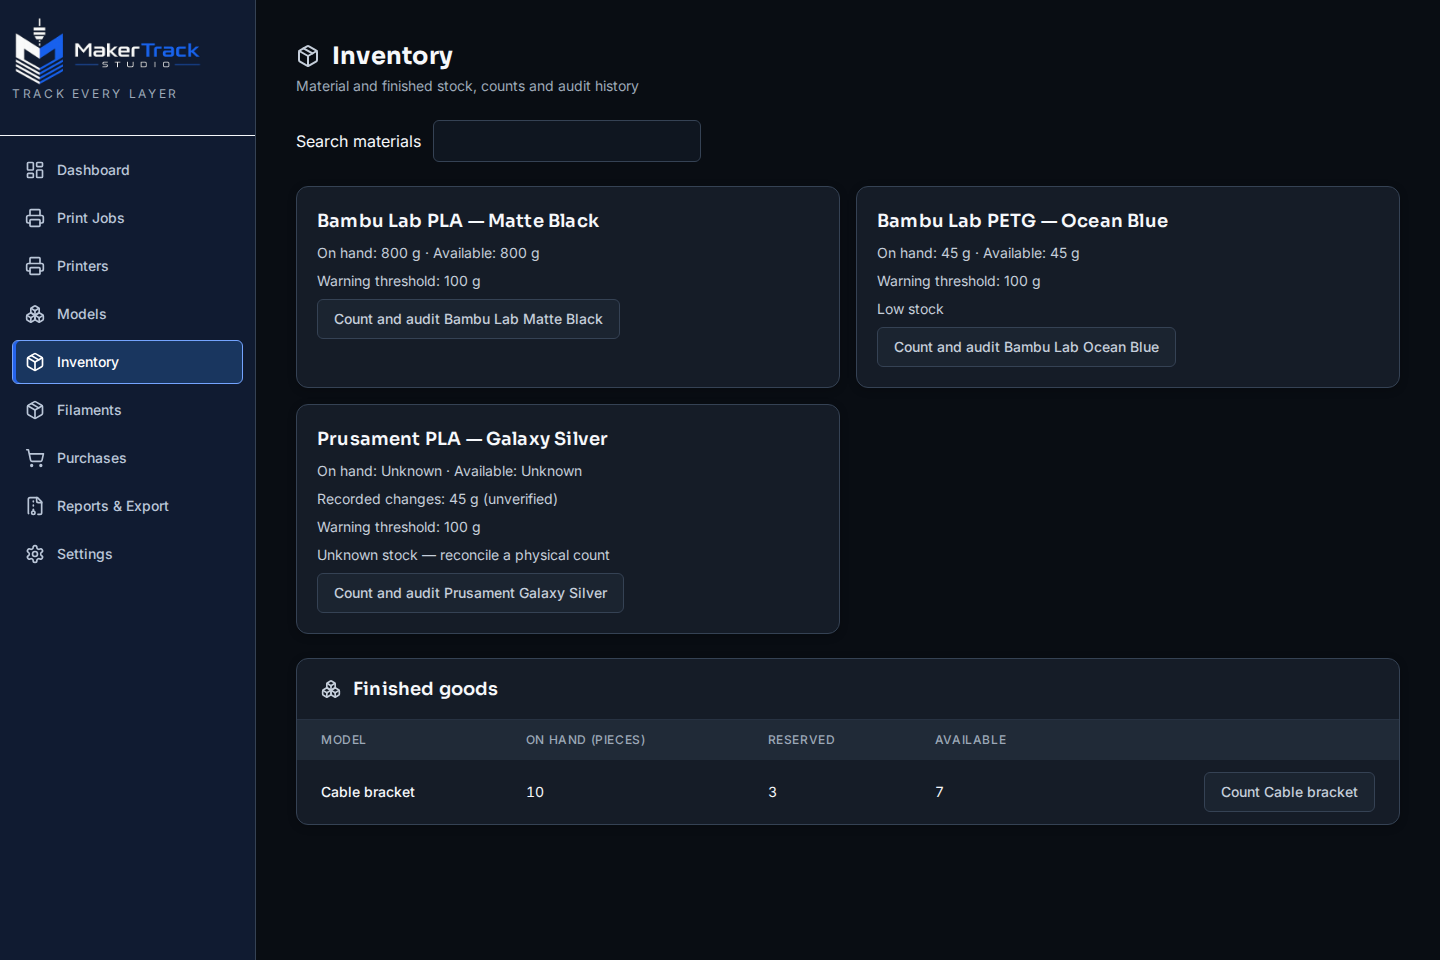
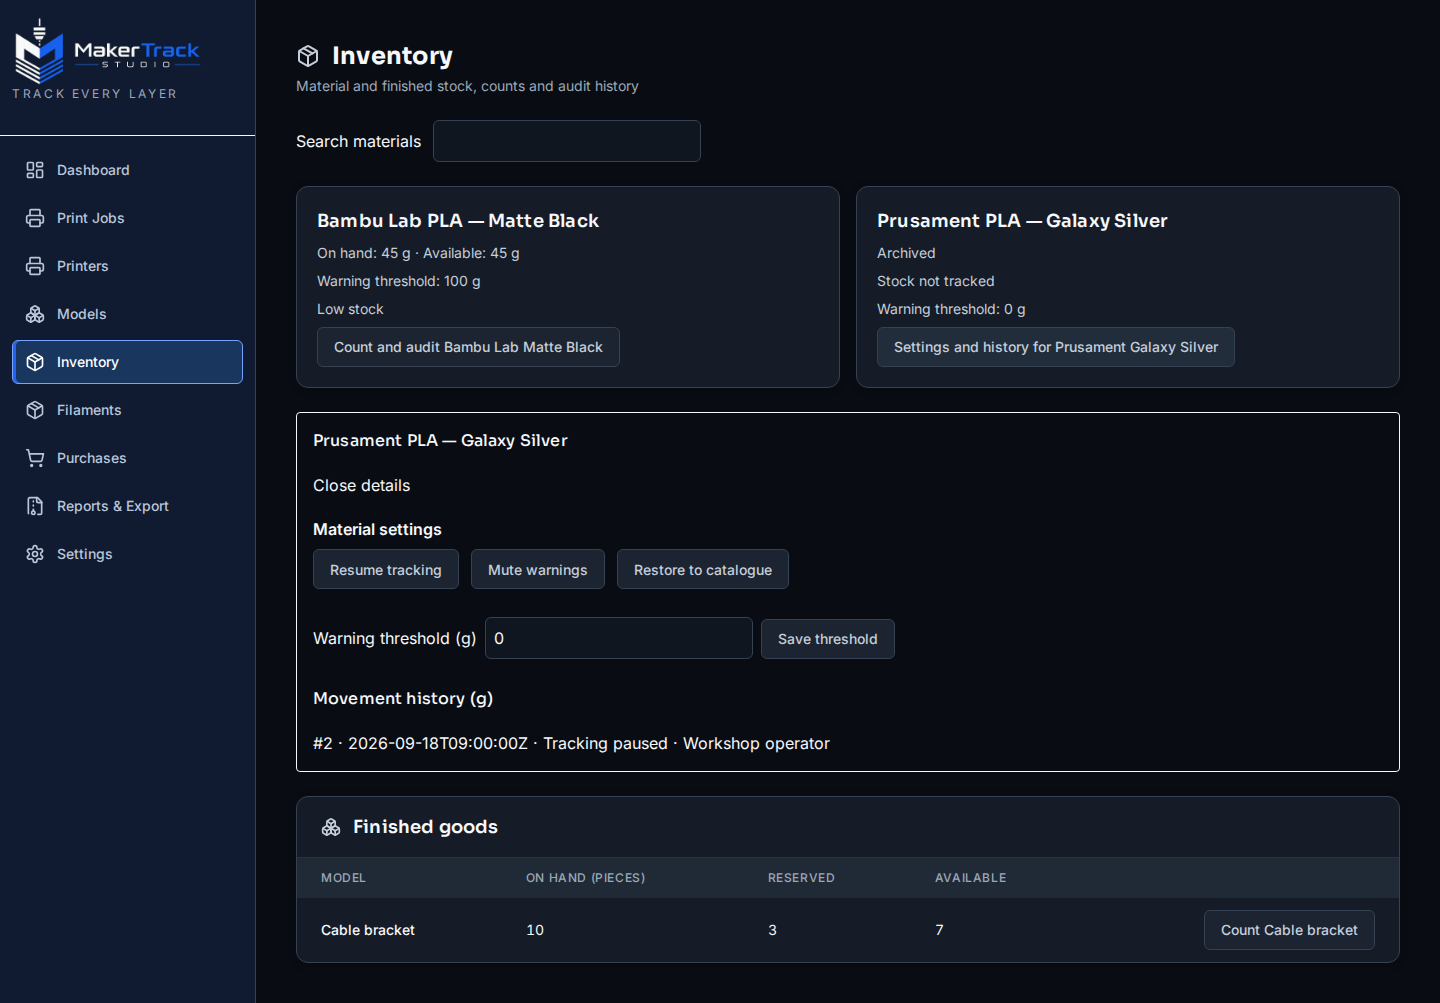
feat(inventory): expose material lifecycle controls and archive-aware choices

diff --git a/apps/web/src/pages/Inventory.jsx b/apps/web/src/pages/Inventory.jsx
@@ -8,7 +8,7 @@ import { useTranslation } from 'react-i18next';
 import { EmptyState, InlineError, LoadingState } from '../components/ui/PageState';
 import Modal from '../components/ui/Modal';
 import PageHeader from '../components/ui/PageHeader';
-import { getFinishedGoods, getMaterials, getMovements, postCount, setThreshold, stockWarning } from '../services/inventoryService';
+import { getFinishedGoods, getMaterials, getMovements, postCount, setThreshold, updateLifecycle, stockWarning } from '../services/inventoryService';
 
 const quantity = yup.number().required().min(0);
 const schema = (pieces) => yup.object({ quantity: pieces ? quantity.integer().max(Number.MAX_SAFE_INTEGER) : quantity.max(Number.MAX_SAFE_INTEGER / 1000), reason: yup.string().trim().required().max(512), actor: yup.string().trim().required().max(128) });
@@ -37,6 +37,37 @@ function Reconcile({ item, onSaved, pieces = false }) {
     {Object.values(errors).map((error, i) => <p role="alert" key={i}>{error.message}</p>)}
     <button className="page-action" disabled={isSubmitting}>{t('finishedGoods.record')}</button>
   </form>;
+}
+
+function LifecycleControls({ item, onSaved }) {
+  const { t } = useTranslation();
+  const [confirm, setConfirm] = useState(false);
+  const [saving, setSaving] = useState(false);
+  const tracked = item.tracking_enabled !== false;
+  const update = async changes => {
+    setSaving(true);
+    try {
+      await updateLifecycle(item.id, changes);
+      await onSaved();
+    } catch (err) {
+      if (err.response?.status === 409) {
+        toast.error(t('lifecycle.stale'));
+        await onSaved();
+      } else {
+        toast.error(t('lifecycle.failed'));
+      }
+    }
+    finally { setSaving(false); }
+  };
+  return <fieldset disabled={saving} className="flex flex-wrap items-center gap-3">
+    <legend className="mb-2 font-semibold">{t('lifecycle.controls')}</legend>
+    <button className="page-action page-action-secondary" onClick={() => setConfirm(true)}>{t(tracked ? 'lifecycle.pause' : 'lifecycle.resume')}</button>
+    <button className="page-action page-action-secondary" onClick={() => update({ warnings_enabled: item.warnings_enabled === false })}>{t(item.warnings_enabled === false ? 'lifecycle.enableWarnings' : 'lifecycle.mute')}</button>
+    <button className="page-action page-action-secondary" onClick={() => update({ archived: !item.archived })}>{t(item.archived ? 'lifecycle.unarchive' : 'lifecycle.archive')}</button>
+    {confirm && <div className="w-full space-y-2"><p>{t('lifecycle.confirmHelp')}</p>
+      <button className="page-action" onClick={() => update({ tracking_enabled: !tracked, expected_revision: item.balance.revision })}>{t('lifecycle.confirm')}</button>
+      <button className="page-action page-action-secondary" onClick={() => setConfirm(false)}>{t('common.cancel')}</button></div>}
+  </fieldset>;
 }
 
 function FinishedGoods() {
@@ -101,16 +132,20 @@ export default function Inventory() {
       {items.length > 0 && !items.some((item) => `${item.brand} ${item.type} ${item.color}`.toLowerCase().includes(search.toLowerCase())) && <p>No matching materials.</p>}
       <div className="grid gap-4 md:grid-cols-2">{items.filter((item) => `${item.brand} ${item.type} ${item.color}`.toLowerCase().includes(search.toLowerCase())).map((item) => <article className="page-panel p-5 space-y-2 text-sm ui-text-secondary" key={item.id}>
         <h2 className="text-lg font-semibold ui-text-primary">{item.brand} {item.type} — {item.color}</h2>
-        <p>On hand: {item.balance.verified ? grams(item.balance.on_hand) : 'Unknown'} · Available: {item.balance.verified ? grams(item.balance.available) : 'Unknown'}</p>
-        {!item.balance.verified && <p>Recorded changes: {grams(item.balance.on_hand)} (unverified)</p>}
+        {item.warnings_enabled === false && <p>{t('lifecycle.muted')}</p>}
+        {item.archived && <p>{t('lifecycle.archived')}</p>}
+        {item.tracking_enabled === false ? <p>{t('lifecycle.untracked')}</p> : <p>On hand: {item.balance.verified ? grams(item.balance.on_hand) : 'Unknown'} · Available: {item.balance.verified ? grams(item.balance.available) : 'Unknown'}</p>}
+        {item.tracking_enabled !== false && !item.balance.verified && <p>Recorded changes: {grams(item.balance.on_hand)} (unverified)</p>}
         <p>Warning threshold: {grams(item.threshold_mg)}</p><p>{stockWarning(item)}</p>
-        <button className="page-action page-action-secondary" onClick={() => inspect(item)}>Count and audit {item.brand} {item.color}</button>
+        <button className="page-action page-action-secondary" onClick={() => inspect(item)}>{t(item.tracking_enabled === false ? 'lifecycle.review' : 'lifecycle.countAudit', { name: [item.brand, item.color].join(' ') })}</button>
       </article>)}</div>
       {selected && <section className="rounded border p-4 space-y-5" aria-label="Material details">
         <h2>{selected.brand} {selected.type} — {selected.color}</h2><button onClick={() => setSelected(null)}>Close details</button>
+        <LifecycleControls key={selected.id} item={selected} onSaved={async () => { setSelected(null); await load(); }} />
         <form onSubmit={saveThreshold}><label>Warning threshold (g)<input className="m-2 rounded border p-2" type="number" min="0" step="0.001" required value={threshold} onChange={(e) => setThresholdValue(e.target.value)} /></label><button className="page-action page-action-secondary">Save threshold</button></form>
-        <Reconcile key={`${selected.id}:${selected.balance.revision}`} item={selected} onSaved={async () => { setSelected(null); await load(); }} />
-        <h2>Movement history (g)</h2>{historyError ? <p role="alert">Could not load history. <button onClick={() => inspect(selected)}>Retry history</button></p> : history.length === 0 ? <p>No recorded movements.</p> : <ol>{history.map((row) => <li key={row.sequence}>#{row.sequence} · {row.created_at} · {row.kind} · {grams(row.quantity)} · {row.reason} · {row.actor}</li>)}</ol>}
+        {selected.tracking_enabled !== false && <Reconcile key={`${selected.id}:${selected.balance.revision}`} item={selected} onSaved={async () => { setSelected(null); await load(); }} />}
+        <h2>Movement history (g)</h2>{historyError ? <p role="alert">Could not load history. <button onClick={() => inspect(selected)}>Retry history</button></p> : history.length === 0 ? <p>No recorded movements.</p> : <ol>{history.map((row) => <li key={row.sequence}>#{row.sequence} · {row.created_at} · {['tracking_paused', 'tracking_resumed'].includes(row.kind)
+          ? t(`lifecycle.${row.kind}`) : `${row.kind} · ${grams(row.quantity)} · ${row.reason}`} · {row.actor}</li>)}</ol>}
         {after > 0 && <button onClick={() => inspect(selected, after)}>Load more movements</button>}
       </section>}
     </>}

diff --git a/apps/web/visual/catalog.screenshots.spec.js b/apps/web/visual/catalog.screenshots.spec.js
@@ -39,7 +39,30 @@ const ready = {
 };
 
 const scenarios = [
-  ...[false, true].map((mobile) => ({ slug: mobile ? 'inventory-mobile' : 'inventory', route: 'inventory', setup: async (page) => { await page.route('**/api/features', (route) => route.fulfill({ json: { sales_orders: false } })); }, ...(mobile ? { viewport: { width: 390, height: 844 } } : {}), fullPage: true, prepare: async (page) => { await expect(page.getByRole('heading', { name: 'Inventory', exact: true })).toBeVisible(); await expect(page.getByText('Low stock').first()).toBeVisible(); await expect(page.getByText('Cable bracket', { exact: true })).toBeVisible(); } })),
+  ...[false, true].map(mobile => ({
+    slug: mobile ? 'inventory-mobile' : 'inventory',
+    route: 'inventory',
+    ...(mobile ? { viewport: { width: 390, height: 844 } } : {}),
+    fullPage: true,
+    setup: async page => {
+      await page.route('**/api/v2/inventory/movements/filament/f2*', route => route.fulfill({ json: [
+        { sequence: 2, created_at: '2026-09-18T09:00:00Z', kind: 'tracking_paused', quantity: 0, actor: 'Workshop operator' },
+      ] }));
+      await page.route('**/api/v2/inventory/materials', route => route.fulfill({ json: [
+        { id: 'f1', brand: 'Bambu Lab', type: 'PLA', color: 'Matte Black', threshold_mg: 100000, balance: { verified: true, on_hand: 45000, available: 45000, revision: 1 } },
+        { id: 'f2', brand: 'Prusament', type: 'PLA', color: 'Galaxy Silver', tracking_enabled: false, archived: true, threshold_mg: 0, balance: { verified: false, revision: 2 } },
+      ] }));
+      await page.route('**/api/features', (route) => route.fulfill({ json: { sales_orders: false } }));
+    },
+    prepare: async page => {
+      await expect(page.getByText('Low stock').first()).toBeVisible();
+      await expect(page.getByText('Stock not tracked')).toBeVisible();
+      await page.getByRole('button', { name: /Settings and history for Prusament/ }).click();
+      await expect(page.getByRole('button', { name: 'Resume tracking' })).toBeVisible();
+      await expect(page.getByText(/Tracking paused · Workshop operator/)).toBeVisible();
+      await expect(page.getByText('Cable bracket', { exact: true })).toBeVisible();
+    },
+  })),
   ...['empty', 'pending', 'error'].map((state) => ({
     slug: `purchases-first-run-${state}`, route: 'purchases',
     setup: async (page) => {

diff --git a/apps/web/src/services/inventoryService.js b/apps/web/src/services/inventoryService.js
@@ -2,6 +2,13 @@ import api from './api';
 export const getMaterials = async () => (await api.get('/v2/inventory/materials')).data;
 export const getMovements = async (id, after = 0) => (await api.get(`/v2/inventory/movements/filament/${id}`, { params: { after } })).data;
 export const setThreshold = async (id, threshold_mg) => api.put(`/v2/inventory/thresholds/${id}`, { threshold_mg });
+export const updateLifecycle = (id, changes) => api.patch(`/v2/inventory/materials/${id}`, changes);
 export const postCount = async (data) => (await api.post('/v2/inventory/adjustments', data)).data;
-export const stockWarning = (item, requiredMG = null) => !item.balance.verified ? 'Unknown stock — reconcile a physical count' : item.balance.available < 0 ? 'Negative stock — investigate' : requiredMG !== null && requiredMG > item.balance.available ? 'Insufficient material' : item.balance.available <= item.threshold_mg ? 'Low stock' : '';
+export function stockWarning(item, requiredMG = null) {
+  if (item.tracking_enabled === false || item.warnings_enabled === false || item.archived) return '';
+  if (!item.balance.verified) return 'Unknown stock — reconcile a physical count';
+  if (item.balance.available < 0) return 'Negative stock — investigate';
+  if (requiredMG !== null && requiredMG > item.balance.available) return 'Insufficient material';
+  return item.balance.available <= item.threshold_mg ? 'Low stock' : '';
+}
 export const getFinishedGoods = async () => (await api.get('/v2/inventory/finished-goods')).data;

diff --git a/apps/web/src/components/ProductionModal.jsx b/apps/web/src/components/ProductionModal.jsx
@@ -54,7 +54,7 @@ function RunFields({ index, control, register, watch, models, filaments, initial
     {materials.fields.map((material, n) => <div key={material.formKey} className="grid grid-cols-2 gap-3">
       {material.source_tool && <p className="col-span-2 text-sm ui-text-muted">{t('slicer.tool', { number: material.source_tool })}</p>}
       <div className="col-span-2"><FormSelect label={t('production.filament')} control={control} name={`${base}.materials.${n}.filament_id`}
-        options={filaments} clearLabel={t('production.selectFilament')} required getLabel={f => [f.brand, f.type].join(' ') + ' — ' + f.color} /></div>
+        options={filaments.filter(f => !f.archived || f.id === material.filament_id)} clearLabel={t('production.selectFilament')} required getLabel={f => [f.brand, f.type].join(' ') + ' — ' + f.color} /></div>
       <label>{t('production.grams')}<input className={fieldClass} type="number" min="0.001" max="1000000000" step="0.001" {...register(`${base}.materials.${n}.weight_used`)} /></label>
       <label>{t('production.waste')}<input className={fieldClass} type="number" min="0" max="1000000000" step="0.001" {...register(`${base}.materials.${n}.waste_weight_g`)} /></label>
       <label>{t('production.measurement')}<select className={fieldClass} {...register(`${base}.materials.${n}.measurement_state`)}><option value="estimated">{t('production.estimate')}</option>{status !== 'planned' && <option value="verified">{t('production.actual')}</option>}</select></label>

diff --git a/apps/web/src/components/FilamentSelect.jsx b/apps/web/src/components/FilamentSelect.jsx
@@ -3,11 +3,11 @@ import { useTranslation } from 'react-i18next';
 import SearchableSelect from './ui/SearchableSelect';
 
 const label = f => [f.brand, f.type].filter(Boolean).join(' ') + (f.color ? ' — ' + f.color : '');
-export default function FilamentSelect({ filaments, ...props }) {
+export default function FilamentSelect({ filaments, includeArchived = false, ...props }) {
   const { t } = useTranslation();
-  const options = useMemo(() => [...(filaments ?? [])].sort((a, b) =>
+  const options = useMemo(() => (filaments ?? []).filter(f => includeArchived || !f.archived || f.id === props.value).sort((a, b) =>
     label(a).localeCompare(label(b), undefined, { sensitivity: 'base', numeric: true }) ||
-    String(a.id).localeCompare(String(b.id))), [filaments]);
+    String(a.id).localeCompare(String(b.id))), [filaments, includeArchived, props.value]);
   return <SearchableSelect placeholder={props.clearLabel ?? t('purchases.selectFilament')} {...props} options={options} getLabel={label}
     emptyLabel={t('filamentSelect.noResults')} toggleLabel={t('filamentSelect.showOptions')} />;
 }

diff --git a/apps/web/src/i18n/resources/pt-PT.js b/apps/web/src/i18n/resources/pt-PT.js
@@ -1,4 +1,24 @@
 export default {
+  lifecycle: {
+    stale: 'O stock mudou. Reveja os dados atualizados antes de tentar novamente.',
+    tracking_paused: 'Controlo de stock em pausa',
+    tracking_resumed: 'Controlo de stock retomado',
+    review: 'Definições e histórico de {{name}}',
+    countAudit: 'Contagem e auditoria de {{name}}',
+    muted: 'Avisos silenciados',
+    controls: 'Definições do material',
+    pause: 'Pausar controlo de stock',
+    resume: 'Retomar controlo de stock',
+    mute: 'Silenciar avisos',
+    enableWarnings: 'Ativar avisos',
+    archive: 'Arquivar filamento',
+    unarchive: 'Repor no catálogo',
+    archived: 'Arquivado',
+    untracked: 'Stock sem controlo',
+    confirmHelp: 'Após retomar o controlo de stock, é necessária uma nova contagem física. As compras e os custos continuam disponíveis.',
+    confirm: 'Confirmar alteração',
+    failed: 'Não foi possível guardar as definições do material',
+  },
   selector: {
     search: "Pesquisar opções",
     show: "Mostrar opções",

diff --git a/apps/web/src/modules/sales/components/EstimateEditor.jsx b/apps/web/src/modules/sales/components/EstimateEditor.jsx
@@ -81,7 +81,7 @@ export default function EstimateEditor({ kind, record, customers, onSave, comman
   const { fields, append, remove } = useFieldArray({ control, name: 'items', keyName: 'fieldKey' });
   const modelOptions = [['', t('business.adHoc')], ...(models ?? []).map(({ id, name }) => [id, name])];
   const printerOptions = [['', t('business.defaultPrinter')], ...printers.map(({ id, name }) => [id, name])];
-  const filamentOptions = [['', t('business.chooseFilament')], ...filaments.map(({ id, brand, type, color }) => [id, [brand, type, color].filter(Boolean).join(' ')])];
+  const filamentOptions = [['', t('business.chooseFilament')], ...filaments.filter(f => !f.archived).map(({ id, brand, type, color }) => [id, [brand, type, color].filter(Boolean).join(' ')])];
   if (budget && loading) return <LoadingState />;
   if (budget && error) return <InlineError title={t('business.loadError')} onRetry={refetch} />;
   return <form className="page-panel p-5 sm:p-6" noValidate onSubmit={handleSubmit((values) => {

diff --git a/apps/web/src/pages/PrintJobs.jsx b/apps/web/src/pages/PrintJobs.jsx
@@ -503,7 +503,7 @@ function PrintJobs() {
             value={list.filters.printer_id || ''} clearLabel={t('printJobs.allPrinters')}
             onChange={id => list.changeFilters({ ...list.filters, printer_id: id })} /></div>
           <div><span className="block mb-1">{t('dashboard.model')}</span><ModelSelect aria-label={t('dashboard.model')} value={list.filters.model_id || ''} onChange={(modelId) => list.changeFilters({ ...list.filters, model_id: modelId })} models={models ?? []} emptyLabel={t('printJobs.allModels')} /></div>
-          <div className="block"><FilamentSelect label={t('dashboard.filament')} filaments={filaments}
+          <div className="block"><FilamentSelect includeArchived label={t('dashboard.filament')} filaments={filaments}
             value={list.filters.filament_id || ''} clearLabel={t('printJobs.allFilaments')}
             onChange={id => list.changeFilters({ ...list.filters, filament_id: id })} /></div>
         </div>

diff --git a/apps/web/src/i18n/resources/en.js b/apps/web/src/i18n/resources/en.js
@@ -1,4 +1,24 @@
 export default {
+  lifecycle: {
+    stale: 'Stock changed. Review the refreshed material before trying again.',
+    tracking_paused: 'Tracking paused',
+    tracking_resumed: 'Tracking resumed',
+    review: 'Settings and history for {{name}}',
+    countAudit: 'Count and audit {{name}}',
+    muted: 'Warnings muted',
+    controls: 'Material settings',
+    pause: 'Pause tracking',
+    resume: 'Resume tracking',
+    mute: 'Mute warnings',
+    enableWarnings: 'Enable warnings',
+    archive: 'Archive filament',
+    unarchive: 'Restore to catalogue',
+    archived: 'Archived',
+    untracked: 'Stock not tracked',
+    confirmHelp: 'A tracking gap requires a new physical count after tracking resumes. Purchases and costs remain available.',
+    confirm: 'Confirm tracking change',
+    failed: 'Could not save material settings',
+  },
   selector: {
     search: "Search options",
     show: "Show options",

diff --git a/apps/web/src/components/FilamentSelect.test.jsx b/apps/web/src/components/FilamentSelect.test.jsx
@@ -56,3 +56,16 @@ describe('FilamentSelect', () => {
     expect(selector).toHaveValue('Zeta PLA — Red');
   });
 });
+
+it('retains archived selections on historical rows and excludes them from new choices', async () => {
+  const user = userEvent.setup();
+  const options = [{ ...filaments[0], archived: true }, { ...filaments[1], tracking_enabled: false }];
+  const field = value => <FilamentSelect aria-label="Material" filaments={options} value={value} onChange={() => {}} />;
+  const { rerender } = render(field('f3'));
+  const selector = screen.getByRole('combobox', { name: 'Material' });
+  expect(selector).toHaveValue('Zeta PLA — Red');
+  rerender(field(''));
+  await user.click(selector);
+  expect(screen.queryByRole('option', { name: /Zeta/ })).toBeNull();
+  expect(screen.getByRole('option', { name: /Ocean Blue/ })).toBeVisible();
+});

diff --git a/apps/web/src/components/ModelMaterials.jsx b/apps/web/src/components/ModelMaterials.jsx
@@ -102,7 +102,7 @@ function MaterialRequirementField({ row, index, register, control, errors, remov
       })}
     </div>
     <FormSelect name={`${prefix}.preferred_filament_id`} control={control} label={t('modelMaterials.preference')}
-      options={data ?? []} getLabel={filamentLabel} loading={loading} error={error ? t('modelMaterials.catalogError') : undefined}
+      options={(data ?? []).filter(f => !f.archived || f.id === row.preferred_filament_id)} getLabel={filamentLabel} loading={loading} error={error ? t('modelMaterials.catalogError') : undefined}
       clearLabel={t('modelMaterials.noPreference')} />
     <button type="button" className={secondaryAction} onClick={() => remove(index)}>{t('modelMaterials.remove', { number: index + 1 })}</button>
   </fieldset>;

diff --git a/apps/web/src/services/inventoryService.test.js b/apps/web/src/services/inventoryService.test.js
@@ -8,3 +8,12 @@ it('warns from verified physical balances and keeps unknown separate', () => {
  expect(stockWarning({ ...item, balance:{verified:false,available:999} })).toMatch(/Unknown/);
  expect(stockWarning({ ...item, balance:{verified:true,available:-1} })).toMatch(/Negative/);
 });
+
+it.each([{ archived: true }, { warnings_enabled: false }, { tracking_enabled: false }])(
+  'suppresses inventory and planning alerts for %o', settings => {
+    const item = { ...settings, threshold_mg: 0, balance: { verified: true, available: -1 } };
+    expect(stockWarning(item)).toBe('');
+    expect(stockWarning(item, 1000)).toBe('');
+    expect(stockWarning({ ...item, balance: { verified: false } })).toBe('');
+  }
+);
